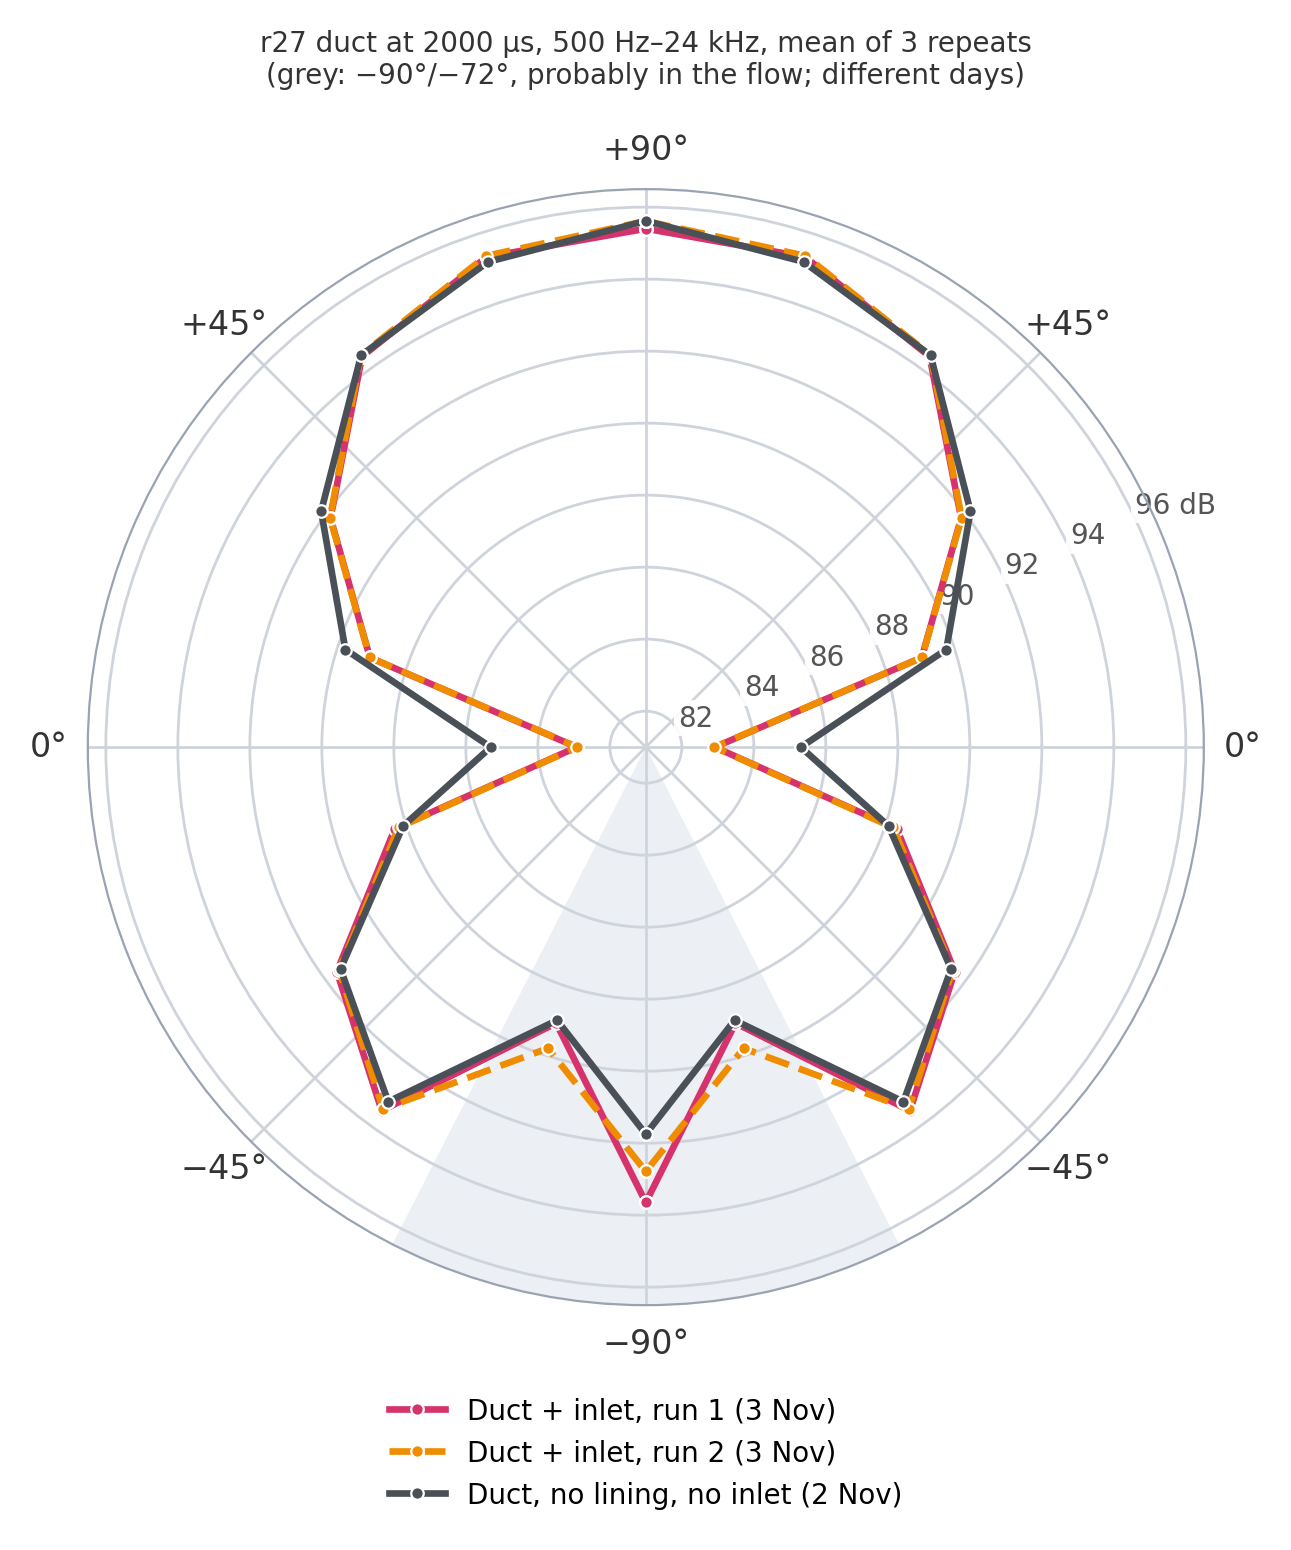
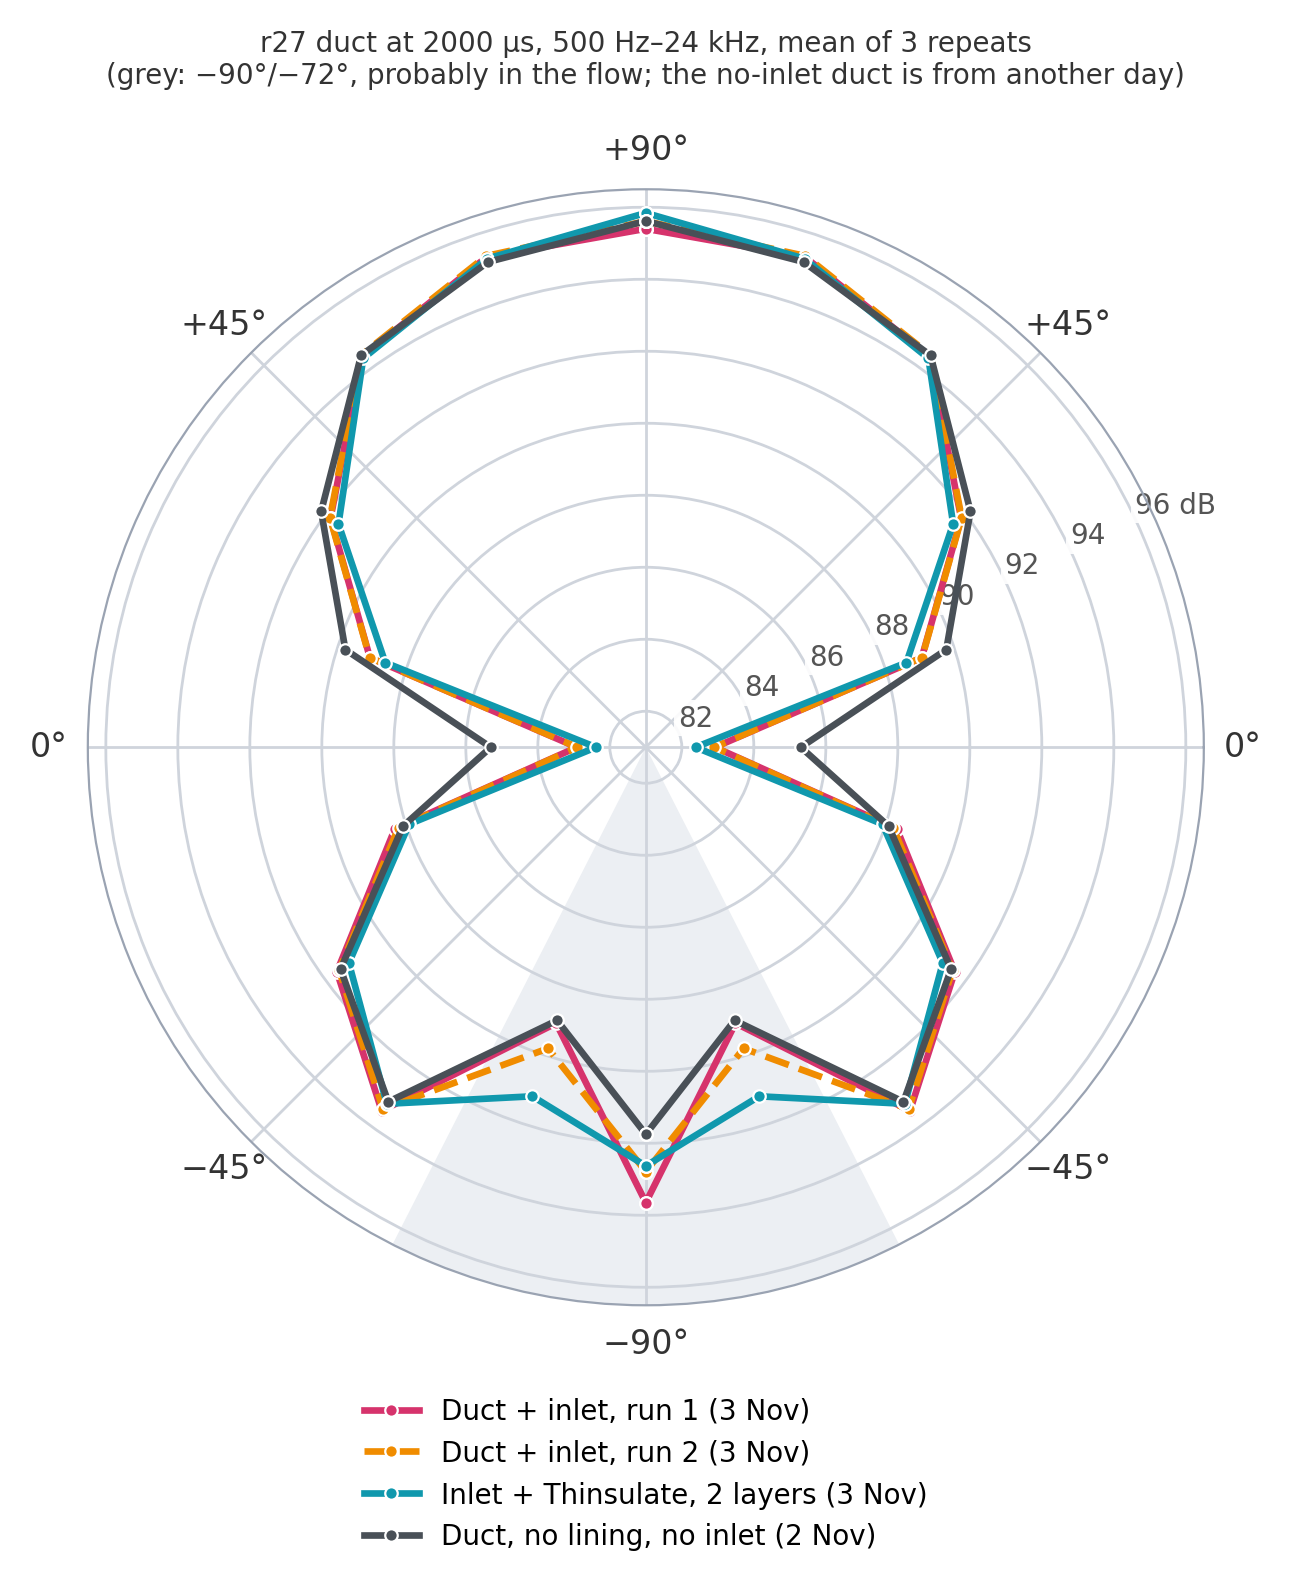
r27 inlet polar: add inlet + Thinsulate 2 (3 Nov, same day as the two inlet runs)

diff --git a/docs/analysis/chamber-final-2026-10-01/slides/make_r27_inlet_fig.py b/docs/analysis/chamber-final-2026-10-01/slides/make_r27_inlet_fig.py
@@ -1,4 +1,4 @@
-"""Polar: the r27 duct with the inlet (3 Nov, run and repeat) against the unlined duct without it (2 Nov), 2000 us,
+"""Polar: the r27 duct with the inlet (3 Nov, run and repeat, and with Thinsulate 2) against the unlined duct without it (2 Nov), 2000 us,
 total level 500 Hz-24 kHz, mean of the 3 repeats, corrected microphone files. Different days: indicative.
 Prints thrust/rpm/current per set-up and the inlet's repeat-to-repeat check.
 """
@@ -12,6 +12,7 @@ I = 'axi2217__8in__duct-unlined-inlet__r27-duct-unlined-inlet'
 SETS = [  # label, base, day, colour, line style
     ('Duct + inlet, run 1 (3 Nov)', I, '2026-11-03', '#D6336C', '-'),
     ('Duct + inlet, run 2 (3 Nov)', I + '-trial-2026-11-03', '2026-11-03', '#F08C00', '--'),
+    ('Inlet + Thinsulate, 2 layers (3 Nov)', 'axi2217__8in__inlet-thinsulate-2-layers__r27-inlet-thinsulate-2-layers', '2026-11-03', '#1098AD', '-'),
     ('Duct, no lining, no inlet (2 Nov)', 'axi2217__8in__duct-unlined__r27-duct-unlined', '2026-11-02', '#495057', '-'),
 ]
 PWM, LO, HI = 2000, 500, 24000
@@ -45,10 +46,10 @@ print('elev            ' + ' '.join(f'{int(e):>6}' for e in el))
 for nm, (e, lv, _, _) in data.items():
     assert (e == el).all()
     print(f'{nm[:15]:15} ' + ' '.join(f'{x:6.1f}' for x in lv.mean(0)))
-a, b, c = (data[s[0]][1].mean(0) for s in SETS)
+a, b, t, c = (data[s[0]][1].mean(0) for s in SETS)
 print('run2 - run1     ' + ' '.join(f'{x:+6.1f}' for x in b - a))
+print('thin2 - run1    ' + ' '.join(f'{x:+6.1f}' for x in t - a))
 print('run1 - no inlet ' + ' '.join(f'{x:+6.1f}' for x in a - c))
-print('run2 - no inlet ' + ' '.join(f'{x:+6.1f}' for x in b - c))
 
 allv = np.concatenate([lv.mean(0) for _, lv, _, _ in data.values()])
 zmin, zmax = float(np.floor(allv.min()) - 1), float(np.ceil(allv.max()) + .5)
@@ -63,6 +64,6 @@ ax.set_yticklabels([f'{t}' if i < len(zt) - 1 else f'{t} dB' for i, t in enumera
 ax.set_thetagrids([90, 45, 0, 315, 270, 225, 180, 135], ['+90°', '+45°', '0°', '−45°', '−90°', '−45°', '0°', '+45°'], fontsize=12, color='#333')
 ax.grid(color='#cfd4dc', lw=1); ax.spines['polar'].set_color('#9aa3b2')
 ax.legend(loc='upper center', bbox_to_anchor=(.5, -.06), fontsize=10, frameon=False, ncol=1)
-ax.set_title('r27 duct at 2000 µs, 500 Hz–24 kHz, mean of 3 repeats\n(grey: −90°/−72°, probably in the flow; different days)', fontsize=10, color='#333', pad=18)
+ax.set_title('r27 duct at 2000 µs, 500 Hz–24 kHz, mean of 3 repeats\n(grey: −90°/−72°, probably in the flow; the no-inlet duct is from another day)', fontsize=10, color='#333', pad=18)
 fig.savefig(os.path.join(HERE, 'polar-r27-inlet.png'), bbox_inches='tight', pad_inches=.15, facecolor='white')
 print('polar-r27-inlet.png written, axis', zmin, zmax)
